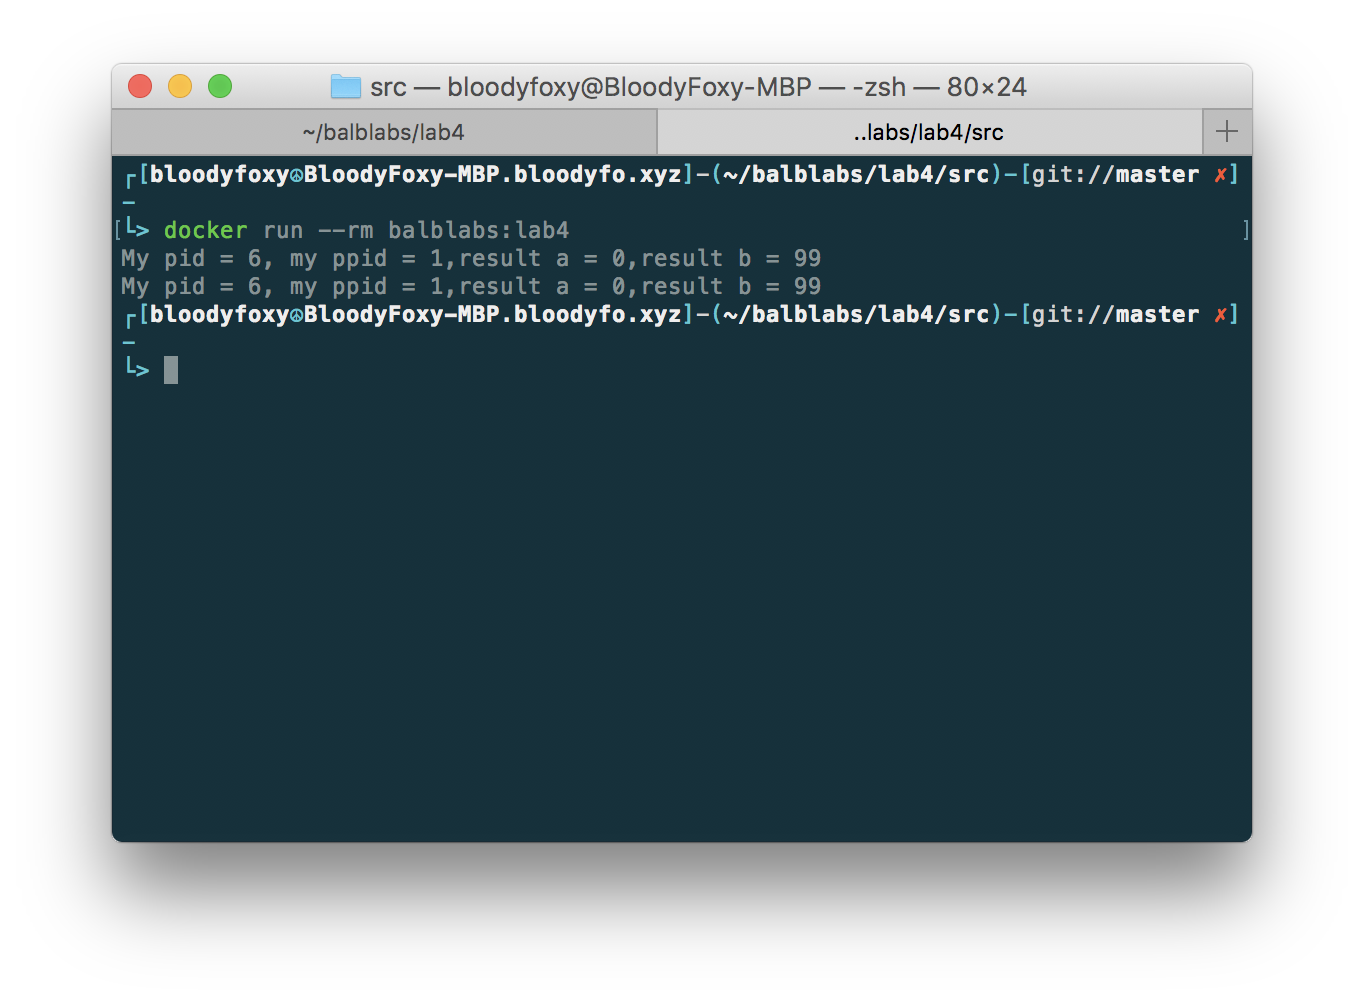
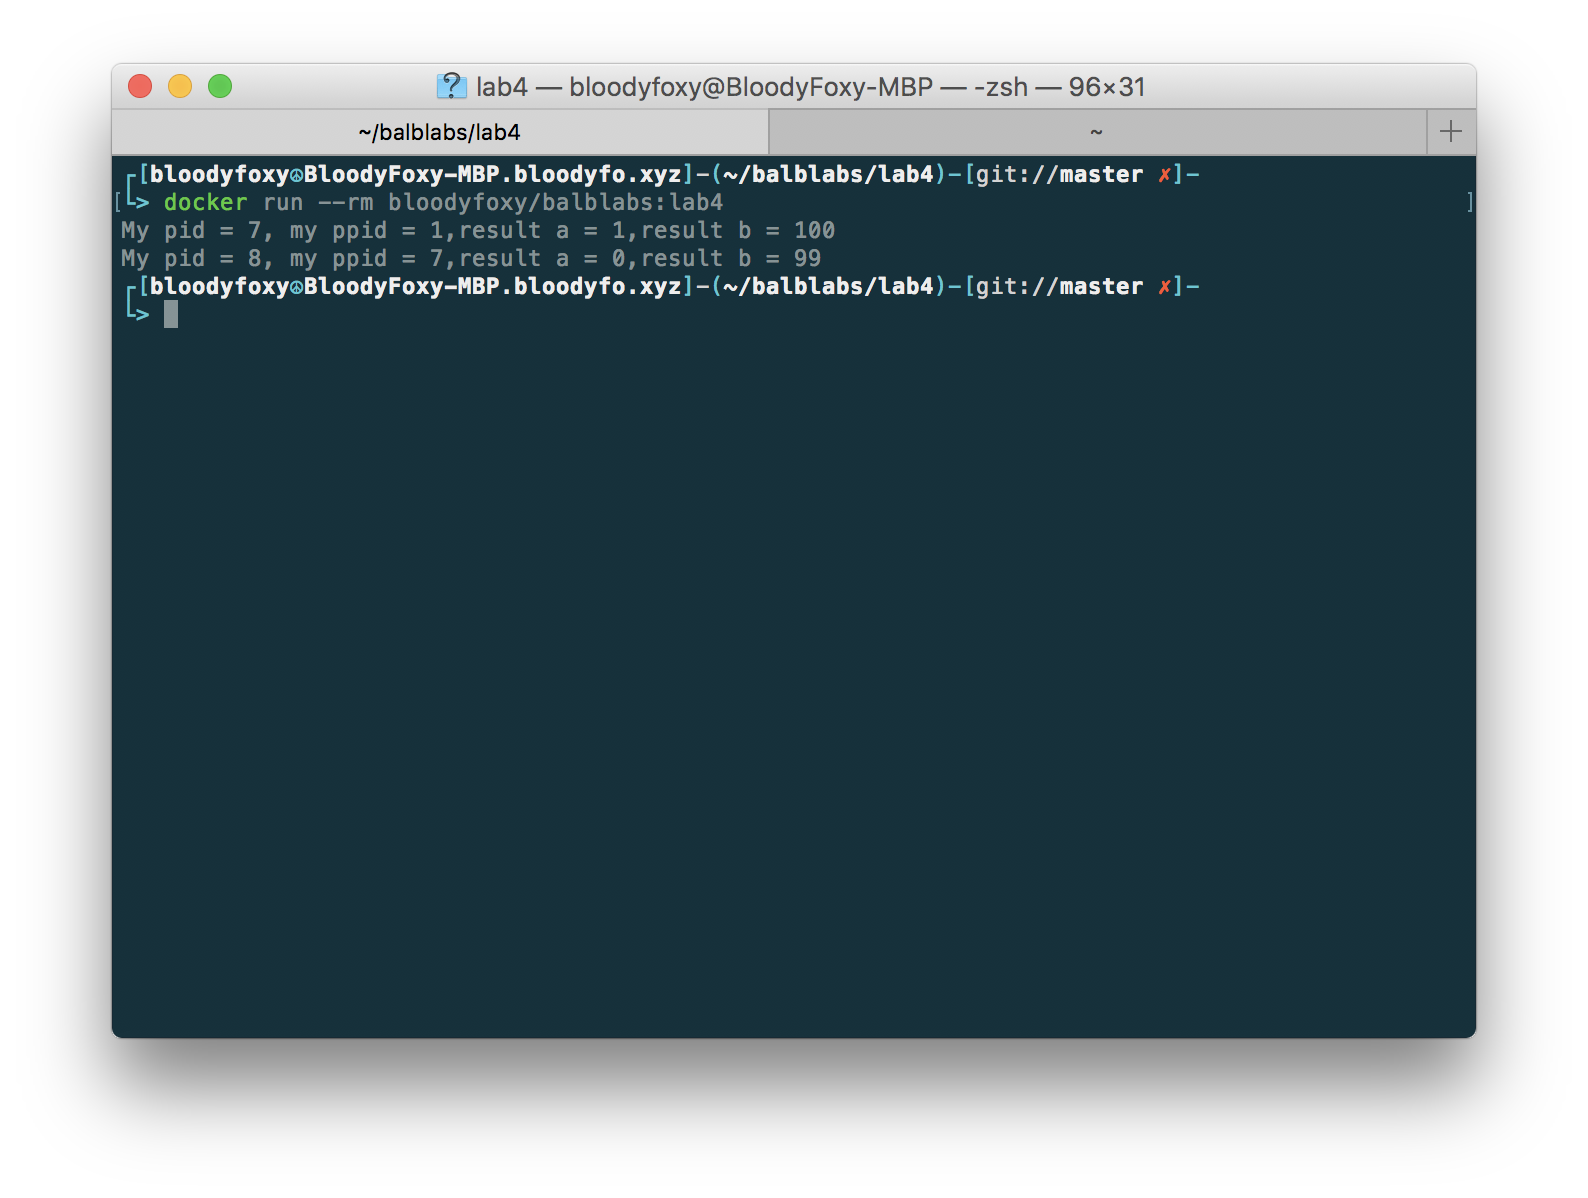
Fixes #2

Changed region(s): [[0.0616, 0.0619, 0.9545, 0.9281]]

diff --git a/lab4/src/lab4.c b/lab4/src/lab4.c
@@ -11,37 +11,21 @@
 int main()
 {
     pid_t pid, ppid;
-    int a =  0; 
+    int a =  0;
     int b =  100; 
 
-    /* При успешном создании нового процесса
-       с этого места псевдопараллельно 
-       начинают работать два процесса: старый
-       и новый */
-    /* Узнаем идентификаторы роди-
-       тельского процесса (в каждом из 
-       процессов) */
-
-    if(fork() == -1){
-    /* ошибка */
-    } else if (pid == 0){
-        pid = getpid();
-        ppid = getppid();
-    /* ребенок */
-      a = pr_a(a);
-    /* Печатаем значения PID, PPID и вычислен-
-       ное значение переменной a,b (в каждом из
-       процессов) */
-      printf("My pid = %d, my ppid = %d,result a = %d,result b = %d\n",(int)pid,(int)ppid,a,b);
-    } else {
-        pid = getpid();
-        ppid = getppid();
-    /* родитель */
-      b = pr_b(b);
-    /* Печатаем значения PID, PPID и вычислен-
-       ное значение переменной a,b (в каждом из
-       процессов) */
-      printf("My pid = %d, my ppid = %d,result a = %d,result b = %d\n",(int)pid,(int)ppid,a,b);
+    int children = fork();
+    if(children == -1){
+        return 1;
     }
+    
+        pid = getpid();
+        ppid = getppid();
+    if(children == 0){
+           b = pr_b(b);
+    } else {
+        a = pr_a(a);
+    }
+    printf("My pid = %d, my ppid = %d,result a = %d,result b = %d\n",(int)pid,(int)ppid,a,b);
     return 0;
 }

diff --git a/lab5/src/lab5.c b/lab5/src/lab5.c
@@ -8,16 +8,16 @@
 int main(int argc, const char * argv[], const char *envp[])
 {
     char data[8000];
+    strcat(data, "CLI arguments\n" );
+    for (int i=0; i<argc; i++) {
+        strcat(data, argv[i]);
+        strcat(data, "\n");
+    }
     strcat(data, "Enviroment variables\n" );
     for (int i=0; envp[i]; i++) {
         strcat(data, envp[i]);
         strcat(data, "\n");
         
-    }
-    strcat(data, "CLI arguments\n" );
-    for (int i=0; i<argc; i++) {
-        strcat(data, argv[i]);
-        strcat(data, "\n");
     }
         //файловые дескрипторы
     int filedesc = open("lab5.txt", O_CREAT | O_TRUNC | O_WRONLY, S_IRUSR | S_IXUSR | S_IWUSR | S_IRGRP | S_IXGRP | S_IXOTH);

diff --git a/docs/lab4.md b/docs/lab4.md
@@ -79,38 +79,22 @@ uninstall:
 int main()
 {
     pid_t pid, ppid;
-    int a =  0; 
+    int a =  0;
     int b =  100; 
 
-    /* При успешном создании нового процесса
-       с этого места псевдопараллельно 
-       начинают работать два процесса: старый
-       и новый */
-    /* Узнаем идентификаторы роди-
-       тельского процесса (в каждом из 
-       процессов) */
-
-    if(fork() == -1){
-    /* ошибка */
-    } else if (pid == 0){
-        pid = getpid();
-        ppid = getppid();
-    /* ребенок */
-      a = pr_a(a);
-    /* Печатаем значения PID, PPID и вычислен-
-       ное значение переменной a,b (в каждом из
-       процессов) */
-      printf("My pid = %d, my ppid = %d,result a = %d,result b = %d\n",(int)pid,(int)ppid,a,b);
-    } else {
-        pid = getpid();
-        ppid = getppid();
-    /* родитель */
-      b = pr_b(b);
-    /* Печатаем значения PID, PPID и вычислен-
-       ное значение переменной a,b (в каждом из
-       процессов) */
-      printf("My pid = %d, my ppid = %d,result a = %d,result b = %d\n",(int)pid,(int)ppid,a,b);
+    int children = fork();
+    if(children == -1){
+        return 1;
     }
+    
+        pid = getpid();
+        ppid = getppid();
+    if(children == 0){
+           b = pr_b(b);
+    } else {
+        a = pr_a(a);
+    }
+    printf("My pid = %d, my ppid = %d,result a = %d,result b = %d\n",(int)pid,(int)ppid,a,b);
     return 0;
 }
 ```
@@ -176,4 +160,4 @@ CMD lab4
 
 ### ascinema запись
 
-[![asciicast](https://asciinema.org/a/5t7qr1on2p1n6rm7zkg4mahrd.png)](https://asciinema.org/a/5t7qr1on2p1n6rm7zkg4mahrd)
+[![asciicast](https://asciinema.org/a/1qeugiakz4t37o26r4o9gel4m.png)](https://asciinema.org/a/1qeugiakz4t37o26r4o9gel4m)

diff --git a/docs/lab5.md b/docs/lab5.md
@@ -44,16 +44,16 @@ docker run --rm bloodyfoxy/balblabs:lab5
 int main(int argc, const char * argv[], const char *envp[])
 {
     char data[8000];
+    strcat(data, "CLI arguments\n" );
+    for (int i=0; i<argc; i++) {
+        strcat(data, argv[i]);
+        strcat(data, "\n");
+    }
     strcat(data, "Enviroment variables\n" );
     for (int i=0; envp[i]; i++) {
         strcat(data, envp[i]);
         strcat(data, "\n");
         
-    }
-    strcat(data, "CLI arguments\n" );
-    for (int i=0; i<argc; i++) {
-        strcat(data, argv[i]);
-        strcat(data, "\n");
     }
         //файловые дескрипторы
     int filedesc = open("lab5.txt", O_CREAT | O_TRUNC | O_WRONLY, S_IRUSR | S_IXUSR | S_IWUSR | S_IRGRP | S_IXGRP | S_IXOTH);
@@ -67,6 +67,7 @@ int main(int argc, const char * argv[], const char *envp[])
 
 ```
 #!/bin/bash
+# Посылаем аргументы
 lab5 First 2nd tHiRd arg kek lol thats boring
 ls -l -h
 cat lab5.txt
@@ -119,4 +120,4 @@ ENTRYPOINT ["start.sh"]
 
 ### asciinema запись
 
-[![asciicast](https://asciinema.org/a/agolupfq6cpjsrf67d77tkred.png)](https://asciinema.org/a/agolupfq6cpjsrf67d77tkred)
+[![asciicast](https://asciinema.org/a/ee939gonygrifwqwf7r2zyqud.png)](https://asciinema.org/a/ee939gonygrifwqwf7r2zyqud)
